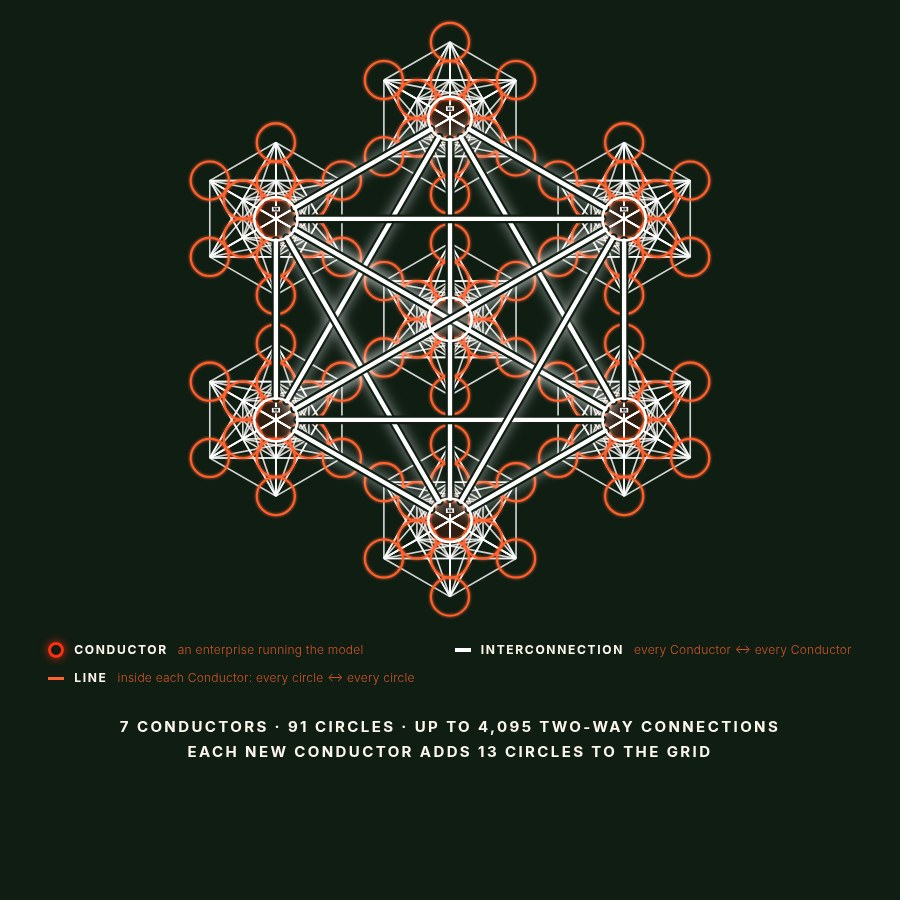
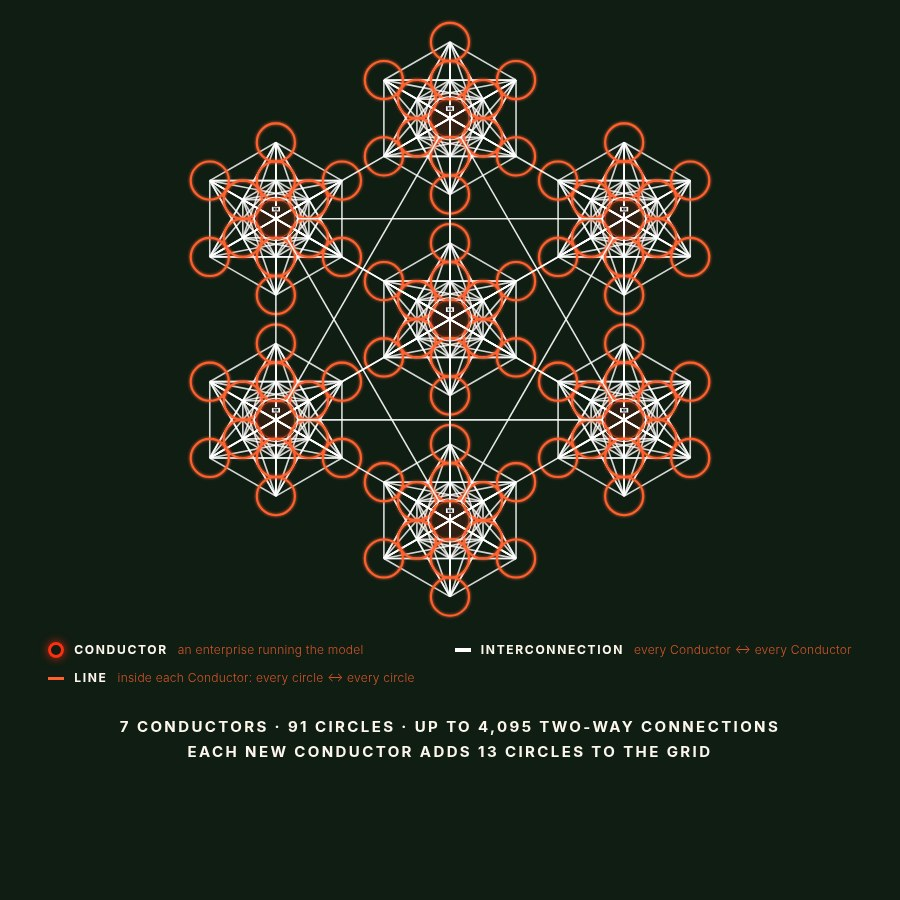
Figures 3–4: Conductor connections use the same thin white lines as Figure 1

Changed region(s): [[0.28, 0.0933, 0.7156, 0.6222]]

diff --git a/js/oe-figures.js b/js/oe-figures.js
@@ -306,14 +306,14 @@ function mFig(mode){
  return wrapSvg(W,H,s,mode);}
 function connect(spots,cr,w,label){let s='';for(let i=0;i<spots.length;i++)for(let j=i+1;j<spots.length;j++){const [x1,y1,x2,y2]=trim(spots[i][0],spots[i][1],spots[j][0],spots[j][1],cr,cr);
   const id=reg('inter',{name:label,kind:'Line · Conductor ↔ Conductor'});const a=`x1="${x1.toFixed(1)}" y1="${y1.toFixed(1)}" x2="${x2.toFixed(1)}" y2="${y2.toFixed(1)}"`;
-  s+=`<g class="oef-part" data-p="${id}" data-t="inter"><line ${a} stroke="${C.paper}" stroke-opacity=".3" stroke-width="${w*3}" stroke-linecap="round" filter="url(#icg)"/><line ${a} stroke="${C.bg}" stroke-width="${w+4}" stroke-linecap="round"/><line ${a} stroke="#fff" stroke-width="${w}" stroke-linecap="round"/></g>`;}
+  s+=`<line class="oef-part" data-p="${id}" data-t="inter" ${a} stroke="#fff" stroke-opacity=".9" stroke-width="${w}"/>`;}
  return s+spots.map(([x,y])=>`<circle cx="${x.toFixed(1)}" cy="${y.toFixed(1)}" r="${cr.toFixed(1)}" fill="none" stroke="#fff" stroke-width="${(w*.6).toFixed(1)}" pointer-events="none"/>`).join('');}
 const ICG='<defs><filter id="icg" x="-20%" y="-20%" width="140%" height="140%"><feGaussianBlur stdDeviation="5"/></filter></defs>';
 function mFew(){
  const W=760,H=760,cx=380,cy=380,rs=23.5,D=252;const spots=[[cx,cy],...[0,1,2,3,4,5].map(k=>[cx+D*Math.cos(rad(90+60*k)),cy-D*Math.sin(rad(90+60*k))])];
  let s=`<rect width="${W}" height="${H}" fill="${C.bg}"/>${ICG}`;
  spots.forEach(([x,y],i)=>{const id=reg('conductor',{name:i===0?'Conductor · at the centre':'Conductor'});s+=`<g class="oef-part" data-p="${id}" data-t="conductor"><circle cx="${x.toFixed(1)}" cy="${y.toFixed(1)}" r="${(5*rs).toFixed(1)}" fill="${C.bg}" fill-opacity="0" pointer-events="visible"/>${miniCube(x,y,rs,{lw:1,op:.85,cw:1.3})}</g>`;});
- s+=connect(spots,rs+3,4,'Interconnection · Conductor ↔ Conductor');
+ s+=connect(spots,rs+3,1.6,'Interconnection · Conductor ↔ Conductor');
  const [lx,ly]=spots[4];s+=`<text class="oef-lbl" x="${lx.toFixed(1)}" y="${(ly+5*rs+9).toFixed(1)}" text-anchor="middle">CONDUCTOR</text>`;
  s+=`<text class="oef-lbl" x="${cx}" y="${(cy-D/2+4).toFixed(1)}" text-anchor="middle">INTERCONNECTION</text>`;
  return wrapSvg(W,H,s,3);}
@@ -325,7 +325,7 @@ function mGrid(){
  for(let i=0;i<7;i++)for(let j=i+1;j<7;j++){g+=`<line x1="${ghosts[i][0].toFixed(1)}" y1="${ghosts[i][1].toFixed(1)}" x2="${ghosts[j][0].toFixed(1)}" y2="${ghosts[j][1].toFixed(1)}" stroke="${C.paper}" stroke-opacity=".35" stroke-width="1.5"/>`;}
  s+=`<g mask="url(#gmask)">${g}</g>`;
  spots.forEach(([x,y],i)=>{const id=reg('conductor',{name:i===0?'The Co.LLab™ · the Conductor at the centre':'Conductor'});s+=`<g class="oef-part" data-p="${id}" data-t="conductor"><circle cx="${x.toFixed(1)}" cy="${y.toFixed(1)}" r="${G}" fill="${C.bg}" fill-opacity="0" pointer-events="visible"/>${miniCube(x,y,G/5,{lw:.7,op:.85,cw:.9})}</g>`;});
- s+=connect(spots,G/5+2,2.2,'Interconnection · Conductor ↔ Conductor');
+ s+=connect(spots,G/5+2,1.4,'Interconnection · Conductor ↔ Conductor');
  s+=`<text x="${cx}" y="${cy+4}" text-anchor="middle" font-size="10" font-weight="700" fill="${C.paper}" ${HALO}>The Co.LLab™</text>`;
  s+=`<text class="oef-lbl" x="${cx}" y="${(cy-big-8).toFixed(1)}" text-anchor="middle">THE GRID · ONE CIRCLE OF THE NEXT MODEL</text>`;
  return wrapSvg(W,H,s,4);}
